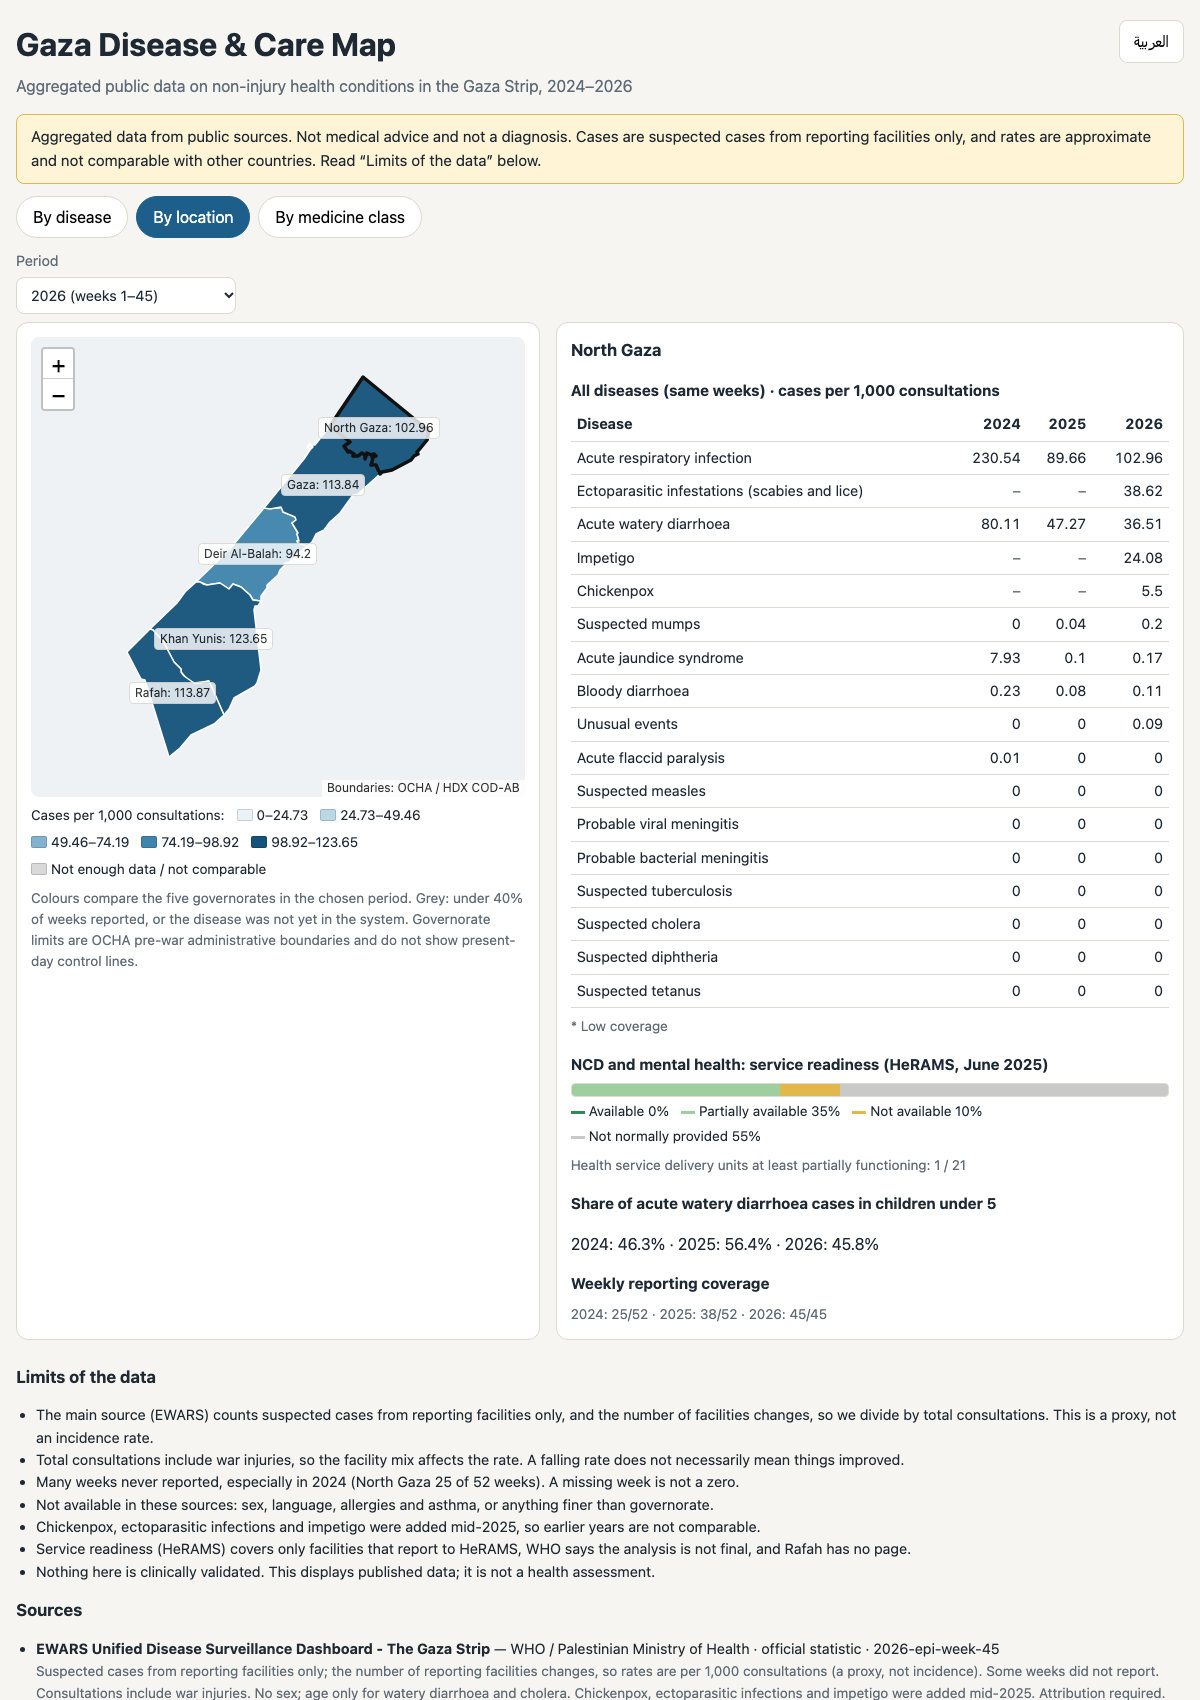
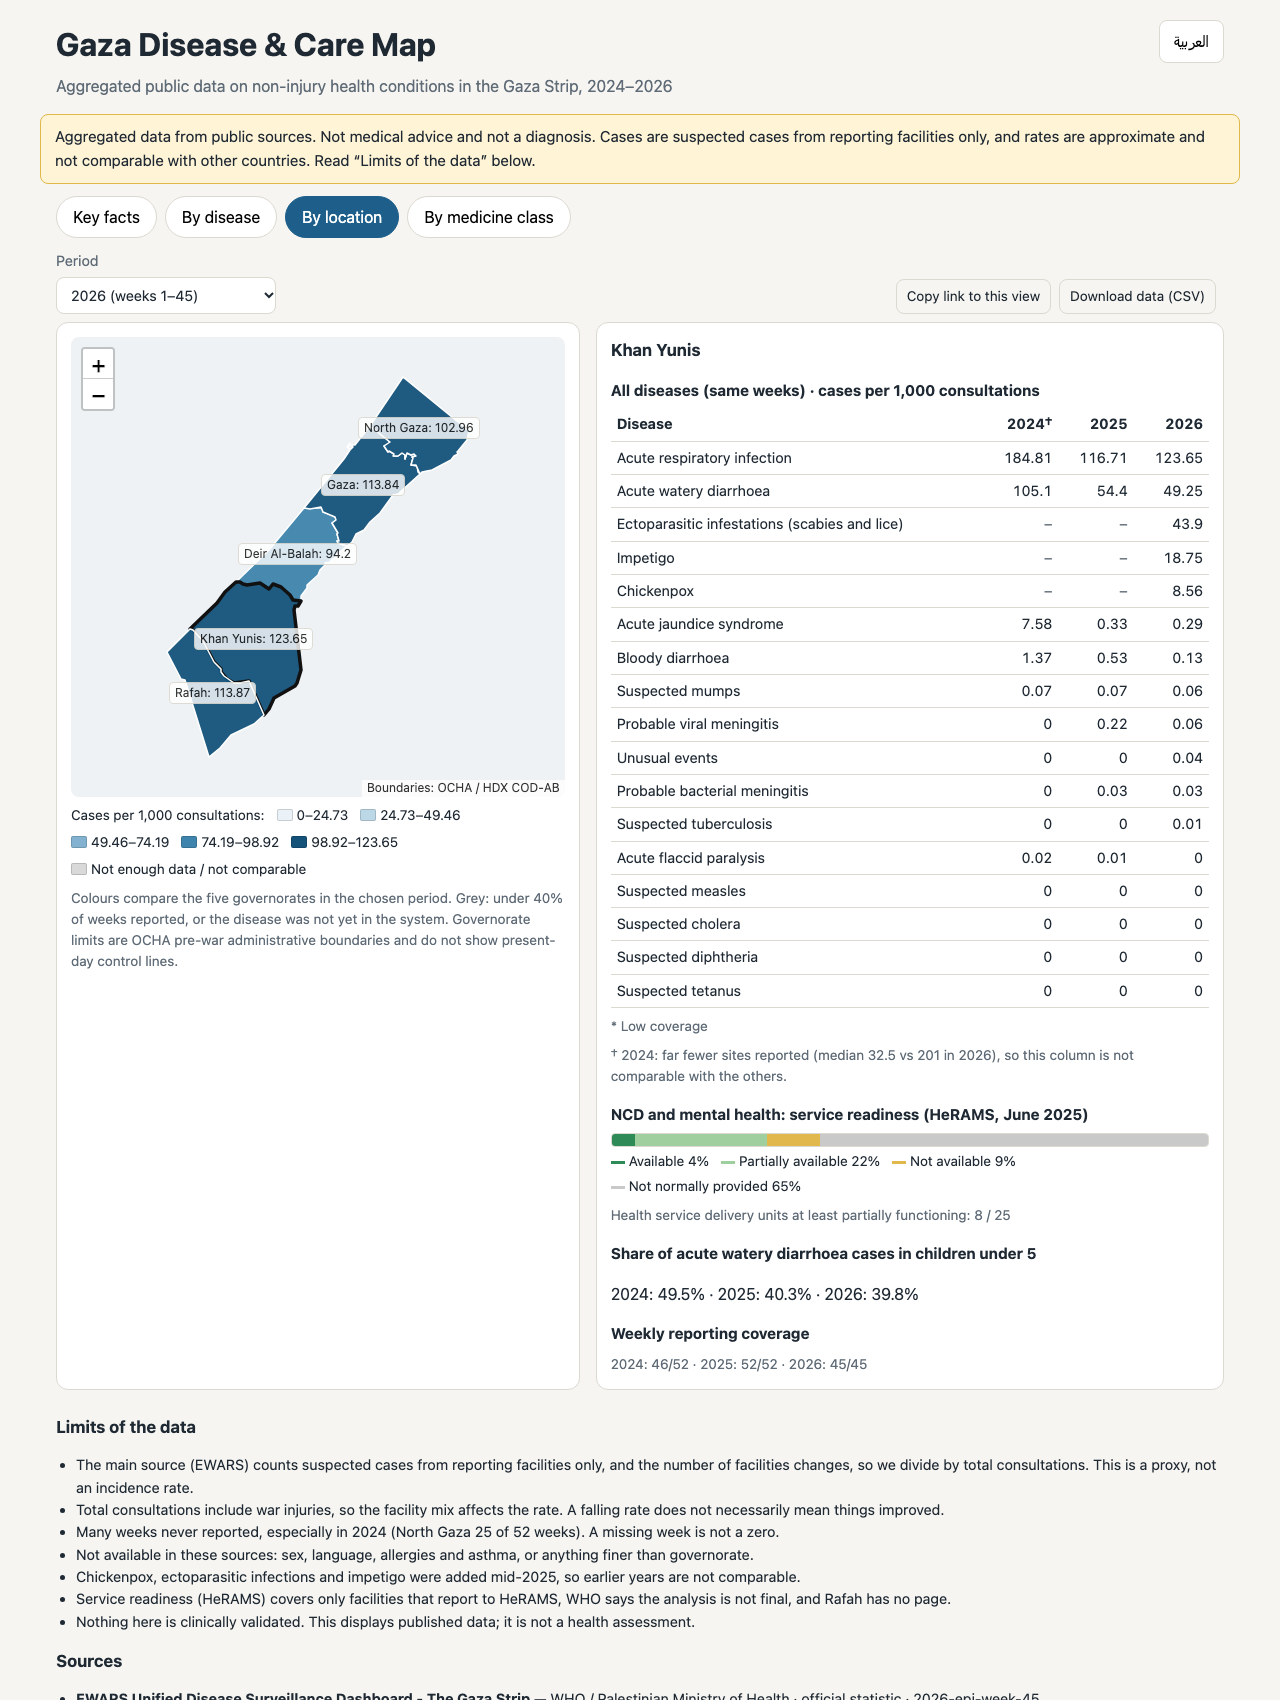
Update READMEs with new site screenshots; fix Arabic bidi in two key facts
- Key facts, medicine and phone screenshots added; map and location retaken
- Root README links the Gaza map side project
- Arabic fact values written in Arabic word order so no renderer mirrors them

diff --git a/gaza_map/site/app.js b/gaza_map/site/app.js
@@ -45,11 +45,11 @@ const I18N = {
     f1: (v, c, y) => [`${v}`, `لكل 1000 استشارة: التهاب الجهاز التنفسي الحاد هو الأكثر تسجيلاً في ${y} (${c} حالة مشتبهة)`, "الاستشارات تشمل إصابات الحرب، والمعدل ليس معدل إصابة في السكان."],
     f2: (v, a, y) => [`${v}`, `لكل 1000 استشارة: الجرب/القمل والقوباء والجدري المائي معاً في ${y}، أعلى من الإسهال المائي (${a})`, "هذه الأمراض أُضيفت للنظام منتصف 2025، فلا نقارنها بما قبل. الجمع صحيح لأن المقام واحد."],
     f3: (g, v, y) => [`${v}`, `لكل 1000 استشارة: ${g} أعلى محافظة في الإسهال المائي الحاد في ${y}`, "الفروق بين المحافظات تتأثر بنوع المرافق المبلِّغة في كل منها."],
-    f4: (f, e) => [`${f} / ${e}`, "وحدة خدمة صحية تعمل ولو جزئياً من التي قيّمها HeRAMS (يونيو 2025)", "تقرير WHO غير نهائي، ويشمل المرافق المبلِّغة لـ HeRAMS فقط."],
-    f5: (lo, hi, last, d) => [`${lo}%–${hi}%`, `من الأدوية الأساسية عند «صفر مخزون» حسب المصدر والتاريخ؛ آخر رقم ${last}% (${d})`, "المصادر تتعارض لتواريخ متقاربة؛ لذلك نعرض المدى لا رقماً واحداً."],
-    f6: (a, b, c, d) => [`${a} → ${b}`, `يوماً: متوسط تأخر وصول التقارير، من 2024 إلى 2026؛ واكتمال التقارير ارتفع من ${c}% إلى ${d}%`, "البيانات صارت أكمل وأسرع؛ لهذا بالذات لا تُقارن 2024 بما بعدها."],
+    f4: (f, e) => [`${f} من ${e}`, "وحدة خدمة صحية تعمل ولو جزئياً من التي قيّمها HeRAMS (يونيو 2025)", "تقرير WHO غير نهائي، ويشمل المرافق المبلِّغة لـ HeRAMS فقط."],
+    f5: (lo, hi, last, d) => [`${lo}%–${hi}%`, `من الأدوية الأساسية عند «صفر مخزون» حسب المصدر والتاريخ؛ آخر رقم ${iso(last + "%")} (${iso(d)})`, "المصادر تتعارض لتواريخ متقاربة؛ لذلك نعرض المدى لا رقماً واحداً."],
+    f6: (a, b, c, d) => [`من ${a} إلى ${b}`, `يوماً: متوسط تأخر وصول التقارير، من 2024 إلى 2026؛ واكتمال التقارير ارتفع من ${c}% إلى ${d}%`, "البيانات صارت أكمل وأسرع؛ لهذا بالذات لا تُقارن 2024 بما بعدها."],
     readH: "للقراءة والتحقق",
-    newer: (r) => `أحدث رقم بمقياس مختلف: ${r.value} ${r.measure_ar} (${r.source}، ${r.as_of}).`,
+    newer: (r) => `أحدث رقم بمقياس مختلف: ${iso(r.value)} ${r.measure_ar} (${iso(r.source + ", " + r.as_of)}).`,
     limitsH: "حدود البيانات",
     limits: [
       "المصدر الرئيسي (EWARS) يعدّ حالات مشتبه بها من مرافق مبلِّغة فقط، وعدد هذه المرافق يتغير، لذا نقسم على إجمالي الاستشارات. هذا مقياس تقريبي وليس معدل إصابة.",
@@ -143,6 +143,8 @@ function localStorageSet(k, v) { try { localStorage.setItem(k, v); } catch (e) {
 
 const T = () => I18N[state.lang];
 // numbers, dates and ranges keep left-to-right order inside right-to-left text
+// Unicode isolate for plain-text (escaped) strings: keeps a date or % in left-to-right order
+const iso = (s) => "\u2066" + s + "\u2069";
 const ltr = (s) => `<bdi dir="ltr">${esc(s)}</bdi>`;
 // a formula on its own left-to-right line, so wrapping can never reorder its parts
 const formula = (c) => `<code class="formula" dir="ltr">${esc(c.cases.toLocaleString("en") + " ÷ " + c.consultations.toLocaleString("en") + " × 1,000 = " + c.per_1000)}</code>`;
@@ -390,7 +392,7 @@ function findingsHtml() {
   const o = DATA.overview;
   if (o["2024"] && o[y]) cards.push([t.f6(o["2024"].mean_delay_days, o[y].mean_delay_days,
     Math.round(o["2024"].mean_completeness * 100), Math.round(o[y].mean_completeness * 100)), { tab: "disease", disease: "ari", year: y }]);
-  const html = cards.map(([[big, text, cav], q]) => `<article class="fact"><p><span class="big">${ltr(big)}</span> ${esc(text)}</p>
+  const html = cards.map(([[big, text, cav], q]) => `<article class="fact"><p><span class="big">${/[\u0600-\u06FF]/.test(big) ? esc(big) : ltr(big)}</span> ${esc(text)}</p>
     <p class="note"><strong>${esc(t.fCaveat)}:</strong> ${esc(cav)}</p><a href="${esc(link(q))}" data-view="${esc(JSON.stringify(q))}">${esc(t.fOpen)} →</a></article>`).join("");
   const reading = (DATA.reading || []).map((r) => `<li><a href="${esc(r.url)}" target="_blank" rel="noopener">${esc(r.title)}</a>
     <span class="note">${esc(r.who)} · ${ltr(r.date)}${r.kind ? " · " + esc(r.kind) : ""}</span><br><span class="note">${esc(state.lang === "ar" && r.finding_ar ? r.finding_ar : r.finding)}</span></li>`).join("");

diff --git a/gaza_map/site/index.html b/gaza_map/site/index.html
@@ -11,7 +11,7 @@
 <meta property="og:image" content="screenshots/map-ar.png">
 <meta name="twitter:card" content="summary_large_image">
 <link rel="stylesheet" href="https://cdnjs.cloudflare.com/ajax/libs/leaflet/1.9.4/leaflet.css" integrity="sha512-Zcn6bjR/8RZbLEpLIeOwNtzREBAJnUKESxces60Mpoj+2okopSAcSUIUOseddDm0cxnGQzxIR7vJgsLZbdLE3w==" crossorigin="anonymous" referrerpolicy="no-referrer">
-<link rel="stylesheet" href="style.css?v=4">
+<link rel="stylesheet" href="style.css?v=6">
 </head>
 <body>
 <header class="top">
@@ -56,6 +56,6 @@
 </footer>
 
 <script src="https://cdnjs.cloudflare.com/ajax/libs/leaflet/1.9.4/leaflet.js" integrity="sha512-BwHfrr4c9kmRkLw6iXFdzcdWV/PGkVgiIyIWLLlTSXzWQzxuSg4DiQUCpauz/EWjgk5TYQqX/kvn9pG1NpYfqg==" crossorigin="anonymous" referrerpolicy="no-referrer"></script>
-<script src="app.js?v=4"></script>
+<script src="app.js?v=6"></script>
 </body>
 </html>

diff --git a/gaza_map/tests/test_site_files.py b/gaza_map/tests/test_site_files.py
@@ -21,7 +21,7 @@ def test_arabic_and_english_have_the_same_keys():
     js = (SITE / "app.js").read_text(encoding="utf-8")
     block = js[js.index("const I18N"):js.index("\n};\n") + 3]
     code = block + "\nconsole.log(JSON.stringify([Object.keys(I18N.ar).sort(), Object.keys(I18N.en).sort()]));"
-    out = subprocess.run(["node", "-e", "const ltr=(s)=>s, formula=()=>'';" + code], capture_output=True, text=True, check=True)
+    out = subprocess.run(["node", "-e", "const ltr=(s)=>s, iso=(s)=>s, formula=()=>'';" + code], capture_output=True, text=True, check=True)
     ar, en = json.loads(out.stdout)
     assert ar == en, set(ar) ^ set(en)
 

diff --git a/gaza_map/README.md b/gaza_map/README.md
@@ -6,9 +6,22 @@ OCHA boundaries. **A display of published data: not medical advice, not a diagno
 
 This is a side project inside the MedRelay repository; it is not part of the MedRelay roadmap.
 
+## Screenshots
+
+**Key facts (landing tab, Arabic):** six facts computed from the data at page load, each with its caveat,
+plus a further-reading list checked against Europe PMC.
+
+![Key facts tab in Arabic](site/screenshots/facts-ar.png)
+
 | By disease (Arabic) | By location (English) |
 |---|---|
-| ![Map and trend](site/screenshots/map-ar.png) | ![Location details](site/screenshots/location-en.png) |
+| ![Map, monthly trend with few-site months shaded, and number of reporting sites](site/screenshots/map-ar.png) | ![Khan Yunis: all diseases by year, HeRAMS readiness, reporting coverage](site/screenshots/location-en.png) |
+
+| By medicine class (English) | Phone (English) |
+|---|---|
+| ![Sourced medicine classes, dated stock-out figures, NCD service readiness](site/screenshots/medicine-en.png) | ![Key facts on a phone-width screen](site/screenshots/mobile-facts-en.png) |
+
+Screenshots taken 2026-11-19 with headless Chrome from the local site (`python3 -m http.server 8765 --directory gaza_map/site`).
 
 ## What it shows
 

diff --git a/README.md b/README.md
@@ -33,3 +33,12 @@ evals/      asr, triage, vision datasets and reports
 data/       synthetic only; everything else is git-ignored
 scripts/    one-off utilities
 ```
+
+## Side project: Gaza Disease & Care Map
+
+A static, bilingual (Arabic/English) map of non-injury disease surveillance and health-service readiness in
+the Gaza Strip, 2024–2026, built from published WHO/MoH data. Separate from the MedRelay roadmap.
+Details, screenshots and limits: [gaza_map/README.md](gaza_map/README.md).
+
+![Gaza Disease & Care Map: key facts tab](gaza_map/site/screenshots/facts-ar.png)
+
